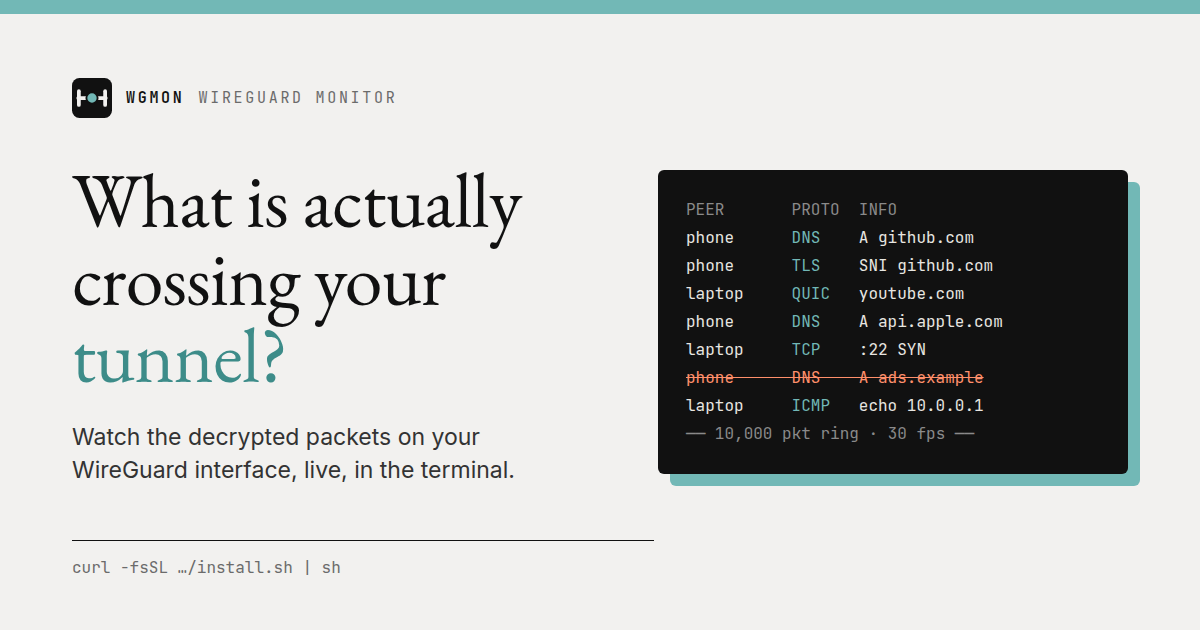
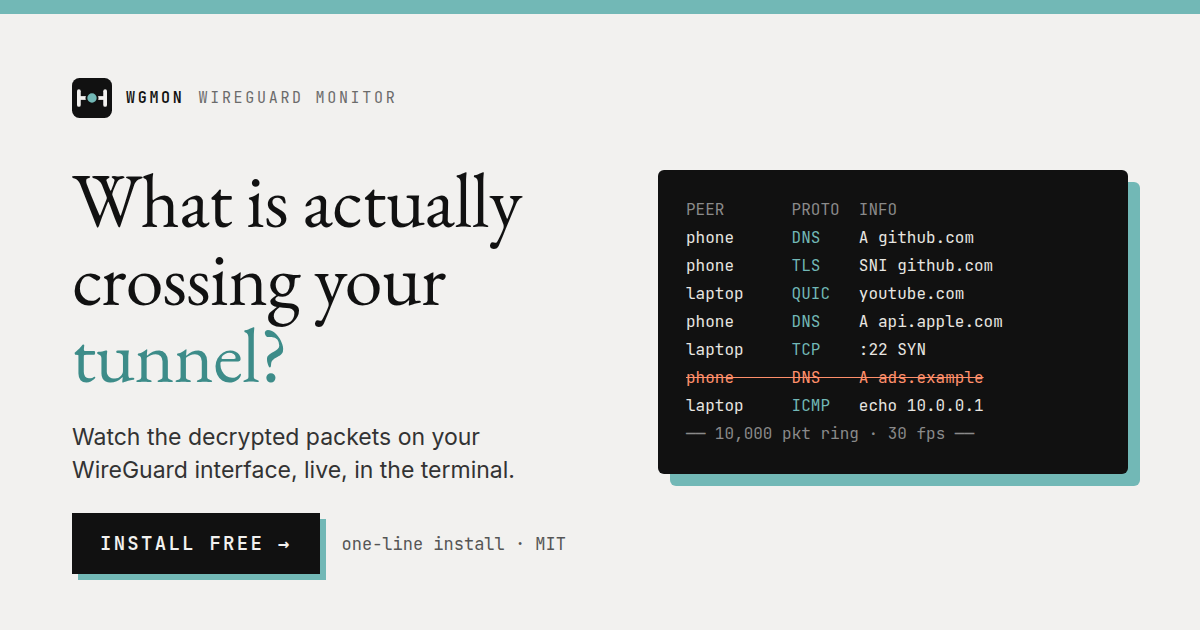
fix(site): shorten meta description and add cta to social image
- cut meta and og description from 164 to 121 characters so search results and link previews do not truncate it
  - replace the install command line in og.png with an "install free →" button as a call to action

Changed region(s): [[0.0617, 0.8143, 0.4933, 0.9349]]

diff --git a/site/src/routes/+page.svelte b/site/src/routes/+page.svelte
@@ -3,7 +3,7 @@
 	const seo = {
 		title: 'wgmon — see what crosses your WireGuard tunnel, live',
 		description:
-			'wgmon is a free, open-source terminal monitor for WireGuard. Watch decrypted packets, DNS lookups, TLS SNI and blocked traffic per peer, live, on your Linux server.',
+			'Free, open-source WireGuard monitor for your terminal. See every peer\'s DNS lookups, TLS sites and blocked packets, live.',
 		url: site,
 		image: site + 'og.png',
 		ld: {
